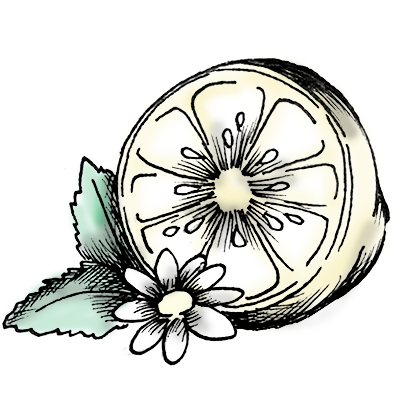
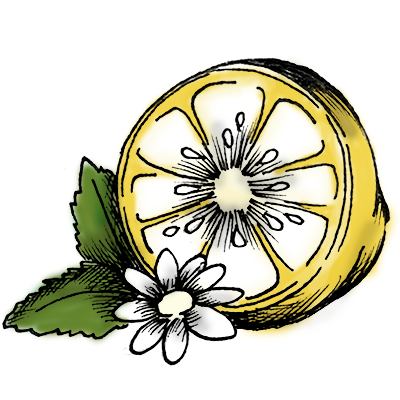
images-coloured 404 added

Changed region(s): [[0.0, 0.15, 0.99, 0.87], [0.48, 0.6, 0.54, 0.63]]

diff --git a/index.html b/index.html
@@ -21,7 +21,7 @@ title: Herbal Tea Resources for the Creative Mind
 		<div class="unit unit-spacer-m unit-m-1-3 unit-l-1-3">
 			<div class="unit-spacer-sides">
 				<a href="{{site.baseurl}}/recipes.html">
-					<img src="img/teacups1.png" class="flex-img img-s img-m img-l" alt="photo-of-tea-illustration">
+					<img src="img/teacups1-1.png" class="flex-img img-s img-m img-l img-margin" alt="photo-of-tea-illustration">
 					<h2 class="unit-m-hidden">Feature Recipe</h2>
 				</a>
 					<h3 class="unit unit-m-hidden recipe-name">Winter Blues Blend</h3>
@@ -50,7 +50,7 @@ from the sinuses, a great overall “feel-good”.</p>
 		<div class="unit unit-spacer-m unit-m-1-3 unit-l-1-3">
 			<div class="unit-spacer-sides">
 				<a href="{{site.baseurl}}/health.html">
-					<img src="img/lemon.png" class="flex-img img-s img-m img-l" alt="image-of-healthy-herbs">
+					<img src="img/lemon-2.png" class="flex-img img-s img-m img-l img-margin" alt="image-of-healthy-herbs">
 					<h2 class="unit-m-hidden">Health Tip of the Week</h2>
 				</a>
 				<h3 class="recipe-name unit-m-hidden">Did you know?</h3>
@@ -73,7 +73,7 @@ from the sinuses, a great overall “feel-good”.</p>
 		<div class="unit unit-spacer-m unit-m-1-3 unit-l-1-3">
 			<div class="unit-spacer-sides">
 				<a href="http://raylamontagne.com" alt="">
-					<img src="img/teabag.png" class="flex-img img-s img-m img-l" alt="img-of-tea">
+					<img src="img/teabag.png" class="flex-img img-s img-m img-l img-margin" alt="img-of-tea">
 					<h2 class="unit-m-hidden">What's News</h2>
 				</a>
 				<h3 class="recipe-name unit-m-hidden">In Music</h3>

diff --git a/_layouts/default.html b/_layouts/default.html
@@ -24,19 +24,18 @@
   <link href="{{site.baseurl}}/css/herbal-tea.css" rel="stylesheet">
   <link href='http://fonts.googleapis.com/css?family=Pompiere' rel='stylesheet' type='text/css'>
 </head>
-<body role="top">
+<body id="top">
 <ul class="skiplinks">
   <li><a href="#main">Skip to primary content</a></li>
-  <li><a href="#complementary">Skip to secondary content</a></li>
   <li><a href="#navigation">Skip to navigation</a></li>
 </ul>
 <header role="banner">
     <a href="{{site.baseurl}}/index.html">
-      <img src="{{site.baseurl}}/img/logo.png" class="flex-img" rel="Home" alt="logo"></a>
+      <img src="{{site.baseurl}}/img/logo.png" class="flex-img" rel="Home" alt="creativi-TEA"></a>
   </div>
 </header>
   <div class="unit-s-hidden single-line"></div>
-      <nav role="navigation" id="navigation">
+      <nav role="navigation" id="navigation" tabindex="0">
         <div class="unit unit-s-hidden unit-m-1 unit-l-1">
           <ul>
             <li><a href="{{site.baseurl}}/about.html" rel="" class="nav-link nav-primary-link">About</a></li>
@@ -57,8 +56,9 @@
     </nav>
   <div class="divider-trim-top"></div>
 
-  {{content}}
-
+  <main role="main" id="main" tabindex="0">
+    {{content}}
+  </main>
   <footer role="contentinfo" class="footer">
   <div class="single-line"></div>
     <p class="copyright">© 2013 creativi-TEA</p>

diff --git a/recipes.html b/recipes.html
@@ -44,7 +44,7 @@ from the sinuses, a great overall “feel-good”.</p>
 		<div class="unit unit-s-1 unit-m-1-3 unit-l-1-4">
 			<div class="unit-spacer-sides-s unit-spacer-sides-m unit-spacer-sides">
 				<a href="{{site.baseurl}}{{recipe.url}}" class="more">
-				<img src="{{site.baseurl}}/img/{{recipe.image}}" class ="flex-img" alt="Photo of {{recipe.title}}">
+				<img src="{{site.baseurl}}/img/{{recipe.image}}" class ="flex-img img-margin" alt="Photo of {{recipe.title}}">
 				<h2>{{recipe.title}}</h2>
 			</a>
 				<p class="recipe-summary">{{recipe.summary}}</p>

diff --git a/page-404.html b/page-404.html
@@ -1,0 +1,10 @@
+---
+layout: default
+title: 404-Page Not Found
+---
+<div class="grid">
+	<div class="unit unit-s-1 unit-m-1 unit-l-1-2">
+		<img src="img/404-broken.png" class="flex-img" alt="image of broken teacup">
+		<p>Sorry, the page you are looking for cannot be found</p>
+	</div>
+</div>

diff --git a/_includes/css/recipe.css b/_includes/css/recipe.css
@@ -30,6 +30,11 @@
 	margin-bottom: 0;
 }
 
+.img-margin{
+	margin;top:1em;
+	margin-bottom: 2em;
+}
+
 @media only screen and (min-width: 38em) and (max-width: 60em) {
 
 .recipe-summary{

diff --git a/tea-recipes/allergy.md b/tea-recipes/allergy.md
@@ -1,6 +1,6 @@
 ---
 layout: default
-image: teacups2.png
+image: teacups2-2.png
 title: Allergy Season Tea
 summary: Cool minty, citrus flavors for associated discomforts with allergies.
 category: recipe

diff --git a/tea-recipes/blues.md b/tea-recipes/blues.md
@@ -1,6 +1,6 @@
 ---
 layout: default
-image: teacups3.png
+image: teacups3-3.png
 title: Blues Tea
 summary: When you're feeling down, this tea will give you the boost of energy you need
 category: recipe

diff --git a/tea-recipes/nighty-night.md b/tea-recipes/nighty-night.md
@@ -1,6 +1,6 @@
 ---
 layout: default
-image: teacups6.png
+image: teacups6-6.png
 title: Nighty-Night Tea
 summary: Calming, comforting & flavourful for late night relaxation
 category: recipe

diff --git a/tea-recipes/spicy-herb.md b/tea-recipes/spicy-herb.md
@@ -1,6 +1,6 @@
 ---
 layout: default
-image: teacups8.png
+image: teacups8-8.png
 title: Sweet & Spicy Tea
 summary: A recipe for the senses. Perfect for anytime of year
 category: recipe

diff --git a/tea-recipes/raspberry-tea.md b/tea-recipes/raspberry-tea.md
@@ -1,6 +1,6 @@
 ---
 layout: default
-image: teacups7.png
+image: teacups7-7.png
 title: Raspberry Tea
 summary: Raspberry Tea with the energy effects of a black tea
 category: recipe

diff --git a/tea-recipes/cold-flu.md b/tea-recipes/cold-flu.md
@@ -1,6 +1,6 @@
 ---
 layout: default
-image: teacups5.png
+image: teacups5-5.png
 title: Colds and Flu
 summary: A remedy to help relieve symptoms of cold and flu
 category: recipe

diff --git a/tea-recipes/bronze-fennel.md b/tea-recipes/bronze-fennel.md
@@ -1,6 +1,6 @@
 ---
 layout: default
-image: teacups4.png
+image: teacups4-4.png
 title: Bronze Fennel Tea
 summary: Helps the appetite and stimulates digestion
 category: recipe
